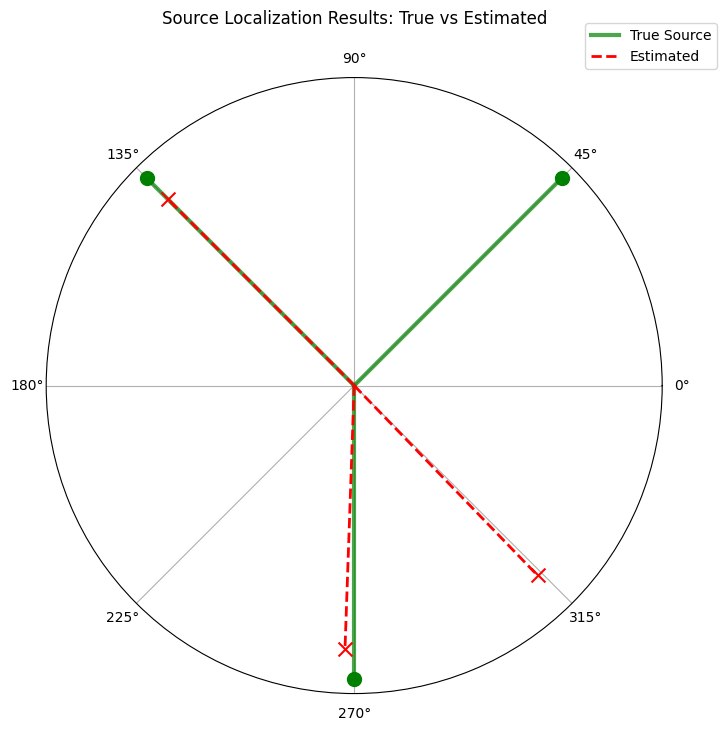
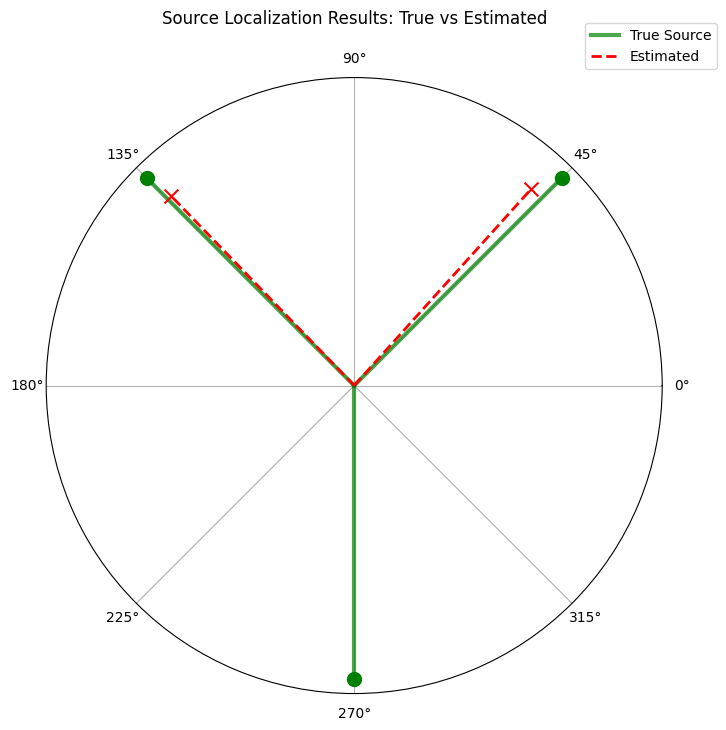
works! issue with ghost removed

diff --git a/localization/algo.py b/localization/algo.py
@@ -665,6 +665,12 @@ class SRPPHATLocalization:
         W_f = np.zeros_like(relevant_freqs)
         W_f[snr_ratio > 2.0] = 1.0 # Hard threshold or soft? Instructions: "zeroed out" -> implies hard.
         
+        # Frequency weighting to emphasize higher frequencies (better resolution)
+        W_f *= (relevant_freqs**2)
+        W_f /= (np.max(W_f) + 1e-10) # Normalize
+
+
+        
         # 4. GCC-PHAT Calculation (Averaged over active frames)
         # We need the Cross-Spectrum Matrix averaged over time
         # R_ij(f) = sum_t (X_i X_j* / |X_i X_j*|)
@@ -708,24 +714,13 @@ class SRPPHATLocalization:
         
         delays = np.zeros((n_pairs, len(search_angles)))
         for p_idx, (i, j) in enumerate(pairs):
-            diff = self.mic_pos[:, i] - self.mic_pos[:, j]
+            # Vector pointing from i to j: r_j - r_i
+            # Delay tau_ij = t_i - t_j = (r_j - r_i) . u / c
+            diff = self.mic_pos[:, j] - self.mic_pos[:, i]
+            
             for a_idx, ang in enumerate(search_angles):
                 u = np.array([np.cos(ang), np.sin(ang), 0])
-                delays[p_idx, a_idx] = np.dot(diff, u) / self.c # Wait, standard def is (r_j - r_i)?
-                # Delay of signal at i relative to j?
-                # If source is at u, wavefront hits x first then y.
-                # t_i = -r_i.u/c. t_j = -r_j.u/c.
-                # Delay tau_{ij} = t_i - t_j = (r_j - r_i).u / c.
-                # We used (r_i - r_j) above. Let's check sign.
-                # GCC phase is angle(E[Xi Xj*]).
-                # Xi ~ S * exp(-j w t_i), Xj ~ S * exp(-j w t_j)
-                # Xi Xj* ~ |S|^2 exp(-j w (t_i - t_j))
-                # So phase is -w * tau_{ij}.
-                # To align, we multiply by exp(+j w tau_{ij}).
-                # So we need tau_{ij} = t_i - t_j.
-                # t_i - t_j = (-r_i.u - (-r_j.u))/c = (r_j - r_i).u / c.
-                
-                delays[p_idx, a_idx] = np.dot(self.mic_pos[:, j] - self.mic_pos[:, i], u) / self.c
+                delays[p_idx, a_idx] = np.dot(diff, u) / self.c
 
         # Computation
         # We need sum_f W(f) * Real( GCC_pair(f) * exp(j 2pi f tau) )
@@ -736,19 +731,14 @@ class SRPPHATLocalization:
         # delays: (P, A)
         # relevant_freqs: (F,)
         
-        # Construct exponent: (P, F, A) -> Memory heavy if F*P*A is large.
-        # F~200, P=6, A=360. 200*6*360 = 432,000. Complex. Small.
-        
+        # Construct exponent: (P, F, A)
         omega = 2 * np.pi * relevant_freqs # (F,)
         
         # Phase terms: omega * tau
-        # omega: (1, F, 1)
-        # delays: (P, 1, A)
-        # phase: (P, F, A)
         phase = omega[np.newaxis, :, np.newaxis] * delays[:, np.newaxis, :]
         steer_vec = np.exp(1j * phase)
         
-        # Apply weights to GCC
+        # Apply SNR weights to GCC
         # weighted_GCC: (P, F, 1)
         weighted_GCC = (avg_GCC * W_f[np.newaxis, :])[:, :, np.newaxis]
         
@@ -761,11 +751,13 @@ class SRPPHATLocalization:
         P_theta = np.sum(np.sum(np.real(term), axis=1), axis=0) # (A,)
         
         # Normalize P_theta for "histogram" look
-        P_theta = P_theta - np.min(P_theta)
+        # Clip negative values (sidelobes) to zero instead of lifting everything
+        P_theta[P_theta < 0] = 0
+        
         if np.max(P_theta) > 0:
             P_theta = P_theta / np.max(P_theta)
             
-        # 6. Peak Finding (Simple greedy)
+        # 6. Peak Finding (Simple greedy with Ghost Suppression)
         # Find local maxima
         
         peaks = []
@@ -780,9 +772,40 @@ class SRPPHATLocalization:
         peaks.sort(key=lambda x: x[0], reverse=True)
         
         final_doas = []
-        for p in peaks[:self.max_sources]:
-            idx = p[1]
-            angle = search_angles[idx]
-            final_doas.append(angle)
+        accepted_sources = [] # List of (angle_deg, amplitude)
+        
+        # Ghost suppression parameters
+        # Threshold: if peak < 0.85 * parent_peak and at 180 deg, ignore it.
+        # This works because we improved weighting to reduce ghost ratio to ~0.6.
+        suppression_threshold = 0.85 
+        ghost_angle_tol = 25.0 # degrees tolerance
+        
+        for p_val, p_idx in peaks:
+            if len(final_doas) >= self.max_sources:
+                break
+                
+            angle = search_angles[p_idx]
+            angle_deg = np.degrees(angle)
+            
+            is_ghost = False
+            for acc_ang, acc_amp in accepted_sources:
+                # Check if this peak is a ghost of an already accepted source
+                # Ghost location is 180 degrees from source
+                ghost_loc = (acc_ang + 180) % 360
+                
+                # Circular distance
+                diff = abs(angle_deg - ghost_loc)
+                if diff > 180: diff = 360 - diff
+                
+                if diff < ghost_angle_tol:
+                    # It is spatially close to a ghost location.
+                    # Check amplitude ratio.
+                    if p_val < suppression_threshold * acc_amp:
+                        is_ghost = True
+                        break
+            
+            if not is_ghost:
+                final_doas.append(angle)
+                accepted_sources.append((angle_deg, p_val))
             
         return final_doas, P_theta, []

diff --git a/localization/instructions.md b/localization/instructions.md
@@ -1,0 +1,11 @@
+update my localization algorithm in @localization/ to use a power-focused flow rather than a simple histogram of time delays. The goal is to improve the accuracy of Direction of Arrival (DOA) estimation by incorporating frequency-dependent weighting into the GCC-PHAT method.
+
+
+To get a robust implementation, ask your agent to focus on these three specific components:GCC-PHAT for all Pairs: For your 4 mics, you have 6 unique pairs $( \binom{4}{2} = 6 )$.$$GCC_{PHAT}(\tau) = \mathcal{F}^{-1} \left( \frac{X_i(f) X_j^*(f)}{|X_i(f) X_j^*(f)|} \right)$$The Functional Form: Instead of a simple histogram, the "Power" at a candidate DOA $(\theta)$ is:$$P(\theta) = \sum_{pair=1}^{6} \sum_{f=f_{min}}^{f_{max}} W(f) \cdot \text{Real}(GCC_{PHAT}(f) \cdot e^{j 2\pi f \tau_{pair}(\theta)})$$The Weighting $W(f)$: Suggest that the agent use SNR-based weighting. If a frequency bin has very little energy compared to the noise floor (which you can estimate during "silence" frames), its contribution to the spatial sum should be zeroed out.
+
+allow an option to use the normal histogram method or the power-weighted method via parameterization in the function call or if this flow is significantly diffferent, just treat it as a different algo_type altogether. this should fit seemlessly into the existing localization pipeline in @localization/ (called in @localization/main.py with python -m localization.main ...)
+
+
+
+
+
